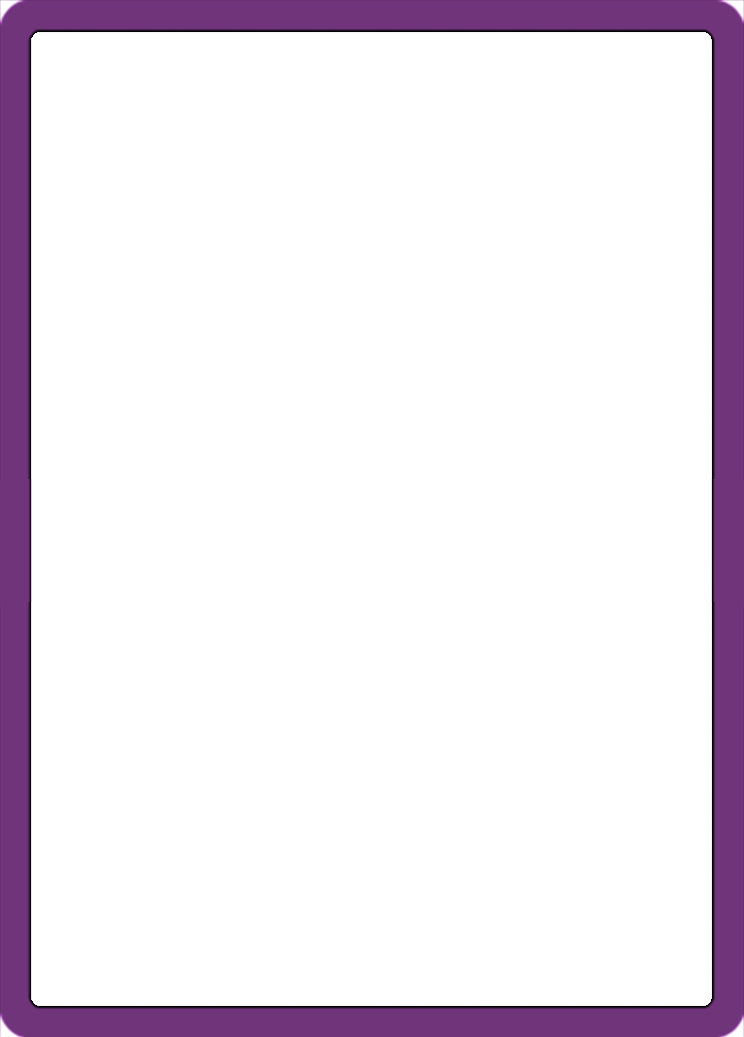
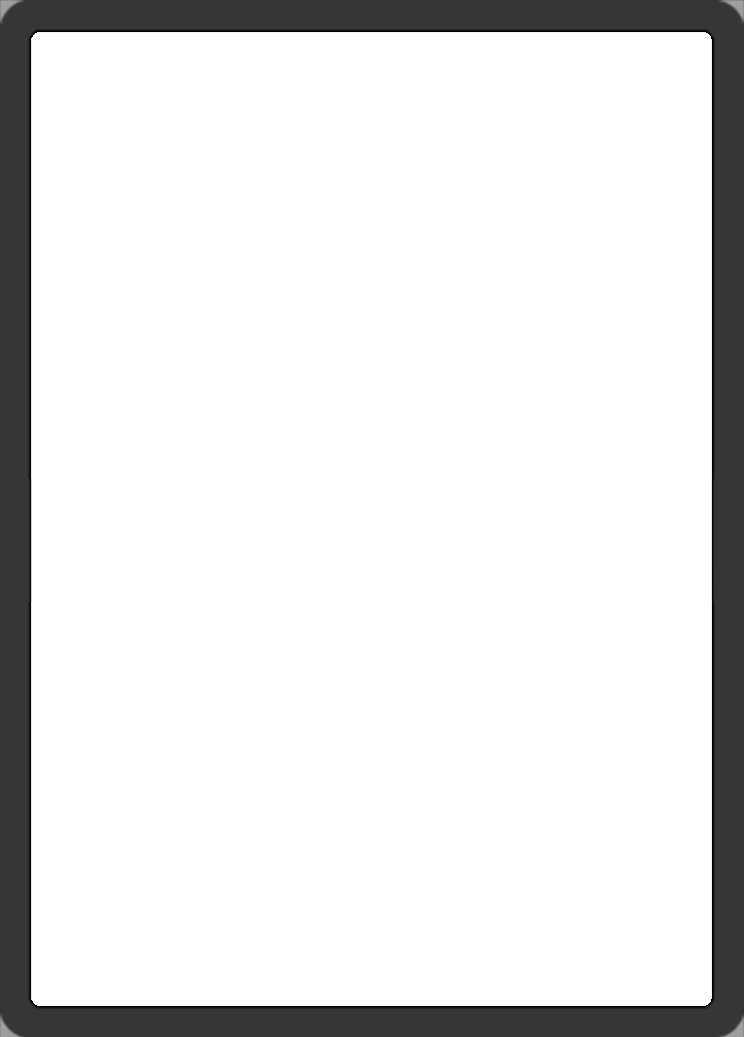
- Cambios de color

Changed region(s): [[0.0, 0.0, 1.0, 1.0]]

diff --git a/js/code.js b/js/code.js
@@ -303,7 +303,7 @@ async function printPreview(){
 			await addPreviewText(3);
 			await addPreviewText(4);
 			await addPreviewText(5); //vacío
-			await addPreviewLayer(6,'layers/bottom.png');
+			await addPreviewLayer(6,'layers/bottom_def.png');
 			await addPreviewText(7); //vacío
 			await addPreviewText(8); //vacío
 			await addPreviewText(9); //vacío
